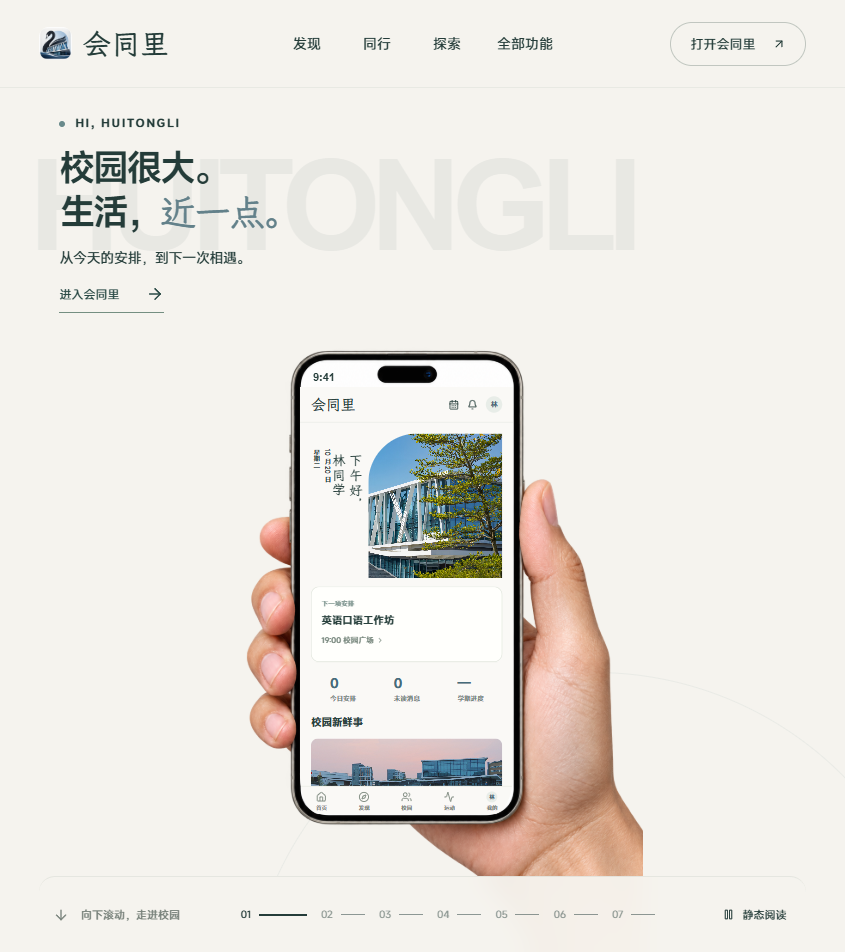
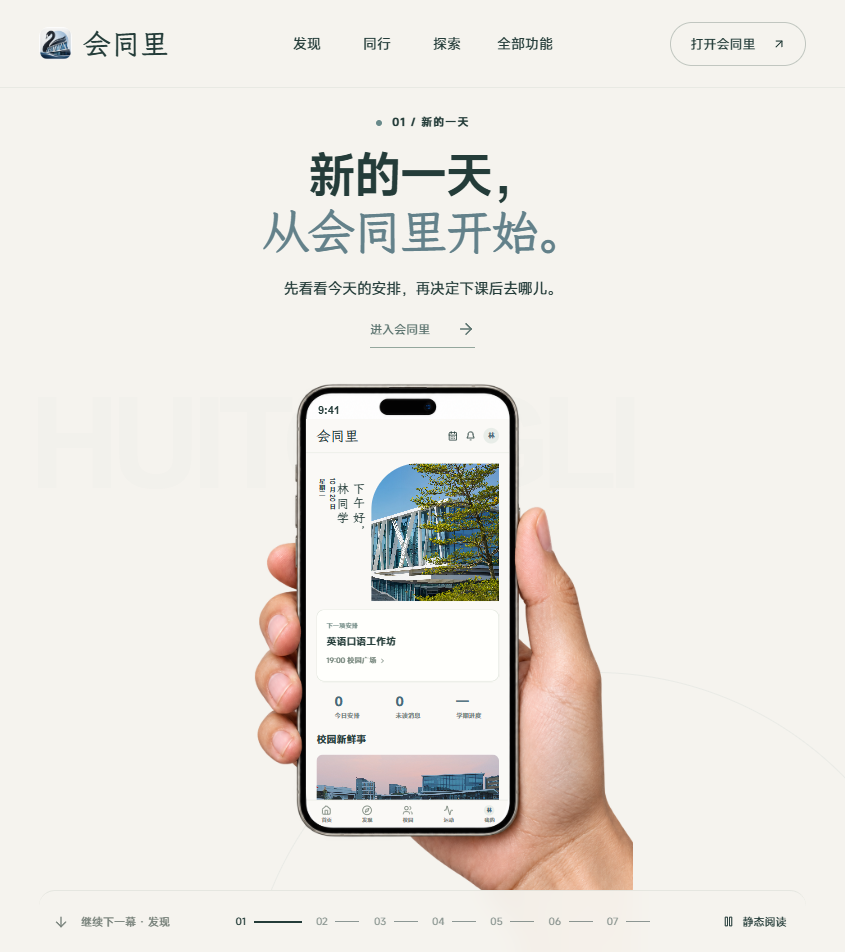
Refine promo storytelling and remove duplicate Coffee Chat imagery

diff --git a/src/promo/Promo.tsx b/src/promo/Promo.tsx
@@ -9,13 +9,13 @@ import { createPhone, type PhonePose } from './phone'
 gsap.registerPlugin(ScrollTrigger)
 
 const chapters = [
-  { tag: 'HI, HUITONGLI', nav: '初见', title: <>校园很大。<br />生活，<em>近一点。</em></>, description: '从今天的安排，到下一次相遇。', detail: '会同里，把你的校园生活放在一起。', screen: 'home', link: '/v2', action: '进入会同里', side: 'left' },
-  { tag: '01 / DISCOVER', nav: '发现', title: <>下课之后，<br /><em>还有好戏。</em></>, description: '一场活动，一个社团，一段值得分享的日常。', detail: '浏览校园活动与社区内容，找到你想参与的下一件事。', screen: 'discover', link: '/v2/activities', action: '去发现', side: 'right' },
-  { tag: '02 / COMMUNITY', nav: '论坛', title: <>校园里的声音，<br /><em>值得被听见。</em></>, description: '分享日常，认真提问，遇见有共鸣的人。', detail: '发布图文、浏览话题，点赞收藏与评论回复，让校园经验持续流动。', screen: 'forum', link: '/v2/community', action: '走进论坛', side: 'left' },
-  { tag: '03 / COFFEE CHAT', nav: 'Coffee Chat', title: <>有些答案，<br /><em>聊一聊就近了。</em></>, description: '选一位老师，约一段专属的交流时间。', detail: '了解交流主题、查看开放时段，带着你的问题发起预约。', screen: 'coffee', link: '/v2/coffee', action: '看看 Coffee Chat', side: 'right' },
-  { tag: '04 / TOGETHER', nav: '同行', title: <>你的「一起吗」，<br /><em>有人回应。</em></>, description: '拼车、自习、运动。把一个人的计划，变成同行。', detail: '按类型、地点与时间寻找队伍，或发起自己的组队。', screen: 'partners', link: '/v2/partners', action: '找个搭子', side: 'left' },
-  { tag: '05 / MOVE', nav: '运动', title: <>走出教室，<br /><em>把状态找回来。</em></>, description: '从一门体育课，到一次认真完成的运动。', detail: '查看体育课程、运动入口与记录。当前展示为本地模拟，不计入真实学时。', screen: 'sports', link: '/v2/sports', action: '打开运动', side: 'right' },
-  { tag: '06 / EXPLORE', nav: '探索', title: <>换个视角，<br /><em>认识校园。</em></>, description: '把熟悉的校园，放在手心转一转。', detail: '在 3D 地图里搜索楼栋、切换校区，查看地点与相关计划。', screen: 'map', link: '/v2/campus/explore', action: '探索校园', side: 'right' },
+  { tag: '01 / 新的一天', nav: '初见', title: <>新的一天，<br /><em>从会同里开始。</em></>, description: '先看看今天的安排，再决定下课后去哪儿。', detail: '课程、活动与想见的人，慢慢排进今天的生活。', screen: 'home', link: '/v2', action: '进入会同里', side: 'left' },
+  { tag: '02 / 下课以后', nav: '发现', title: <>下课之后，<br /><em>还有好戏。</em></>, description: '下课了。不急着回去，看看校园里正在发生什么。', detail: '浏览校园活动与社区内容，找到你想参与的下一件事。', screen: 'discover', link: '/v2/activities', action: '去发现', side: 'right' },
+  { tag: '03 / 想分享的时刻', nav: '论坛', title: <>刚刚的发现，<br /><em>想和大家聊聊。</em></>, description: '把日常写成一篇帖子，也看看同学们怎么说。', detail: '发布图文、浏览话题，点赞收藏与评论回复，让校园经验持续流动。', screen: 'forum', link: '/v2/community', action: '走进论坛', side: 'left' },
+  { tag: '04 / 有些问题，想当面聊', nav: 'Coffee Chat', title: <>关于下一步，<br /><em>约位老师聊聊。</em></>, description: '从一条经验想到自己的方向，带着问题预约一次交流。', detail: '了解交流主题、查看开放时段，带着你的问题发起预约。', screen: 'coffee', link: '/v2/coffee', action: '看看 Coffee Chat', side: 'right' },
+  { tag: '05 / 有了计划，找人同行', nav: '同行', title: <>你的「一起吗」，<br /><em>有人回应。</em></>, description: '聊完有了新想法。找个搭子，把计划变成一次出发。', detail: '按类型、地点与时间寻找队伍，或发起自己的组队。', screen: 'partners', link: '/v2/partners', action: '找个搭子', side: 'left' },
+  { tag: '06 / 给自己一点运动时间', nav: '运动', title: <>走出教室，<br /><em>把状态找回来。</em></>, description: '忙碌了一天，也留一点时间给球场和自己。', detail: '查看体育课程、运动入口与记录。当前展示为本地模拟，不计入真实学时。', screen: 'sports', link: '/v2/sports', action: '打开运动', side: 'right' },
+  { tag: '07 / 熟悉的校园，还有新发现', nav: '探索', title: <>换个视角，<br /><em>认识校园。</em></>, description: '下一次想去的地方，先在地图里看一看。', detail: '在 3D 地图里搜索楼栋、切换校区，查看地点与相关计划。', screen: 'map', link: '/v2/campus/explore', action: '探索校园', side: 'right' },
 ]
 const handChapters = [chapters[0], chapters[1], chapters[4], chapters[6]]
 const storyRange = chapters.length - .4
@@ -147,7 +147,7 @@ export function Promo() {
             </section>)}
           </div>
           {!staticMode && <div className="promo-stage-footer">
-            <div className="promo-scroll-label"><ArrowDown size={16} /><span>向下滚动，走进校园</span></div>
+            <div className="promo-scroll-label"><ArrowDown size={16} /><span>{active < chapters.length - 1 ? `继续下一幕 · ${chapters[active + 1].nav}` : '继续，看看校园的更多可能'}</span></div>
             <div className="promo-chapters" role="group" aria-label="选择产品场景">{chapters.map((chapter, i) => <button key={chapter.nav} onClick={() => jump(i)} aria-label={`查看${chapter.nav}`} aria-pressed={active === i}><span>0{i + 1}</span><i /></button>)}</div>
             <button className="promo-motion" onClick={() => setPaused(true)}><Pause size={13} /><span>静态阅读</span></button>
           </div>}

diff --git a/src/promo/ProductScreen.tsx b/src/promo/ProductScreen.tsx
@@ -37,7 +37,7 @@ export function ProductScreen({ name, active = true }: { name: ScreenName; activ
     <div className="ps-content">
       {name === 'home' && <><div className="ps-home-hero"><p>10 月 20 日<br/>星期二</p><h3>下午好，<br/>林同学</h3><img src={campus} alt="校园建筑"/></div><article className="ps-surface ps-focus"><small>下一项安排</small><h3>英语口语工作坊</h3><p>19:00 校园广场 <ChevronRight size={15}/></p></article><div className="ps-stats"><span><b>0</b>今日安排</span><span><b>0</b>未读消息</span><span><b>—</b>学期进度</span></div><h4>校园新鲜事</h4>{tile('下课之后，去看看校园', '校园日常', evening)}</>}
       {(name === 'discover' || name === 'forum') && <><div className="ps-top-tabs">{(name === 'forum' ? ['关注','发现','推荐'] : ['活动','社团','社区','校友']).map((x,i)=><span key={x} className={i===1?'selected':''}>{x}</span>)}<Search size={19}/></div><div className="ps-chips"><span>推荐</span><span>校园</span><span>学习</span><span>生活</span><span>互助</span></div><div className="ps-feed">{tile(name==='forum'?'在校园里，收集一个普通的晴天':'秋日校园摄影展', '校园广场 · 10/21', campus)}{tile('课后散步，你最喜欢哪一段路？','校园生活',evening,1)}{tile('把学习节奏，慢慢找回来','学习分享',services,2)}{tile('校园夜跑计划','一起出发',campus,1)}</div><div className="ps-toast ps-like"><Heart size={17}/>已收藏，留给下次再看</div><div className="ps-note"><img src={campus} alt="校园照片"/><h3>在校园里，收集一个普通的晴天</h3><p>下课后慢慢走，记录熟悉校园里的新发现。</p><div><Heart size={18}/><span>收藏</span><MessageCircle size={18}/><span>写下你的回应…</span></div></div></>}
-      {name === 'coffee' && <><h2>Coffee Chat</h2><p className="ps-subtitle">和老师聊聊，每一种可能。</p><img className="ps-banner" src={services} alt="校园公共空间"/><div className="ps-search"><Search size={19}/>搜索老师、学院或研究方向</div><div className="ps-chips"><span>全部</span><span>FST</span><span>FBM</span><span>FHSS</span></div><article className="ps-surface ps-teacher"><img src={services} alt="校园公共空间"/><h3>陈老师 <small>演示</small></h3><p>学习方法 · 专业探索</p><div className="ps-slots"><span>周三 14:00</span><span className="ps-pick">周三 15:00 <Check size={13}/></span></div><div className="ps-primary">选择交流时段 <Coffee size={16}/></div></article><div className="ps-toast"><Check size={18}/>时段已选择 · 预约流程演示</div></>}
+      {name === 'coffee' && <><p className="ps-subtitle">和老师聊聊，每一种可能。</p><img className="ps-banner" src={services} alt="校园公共空间"/><div className="ps-search"><Search size={19}/>搜索老师、学院或研究方向</div><div className="ps-chips"><span>全部</span><span>FST</span><span>FBM</span><span>FHSS</span></div><article className="ps-surface ps-teacher"><div className="ps-teacher-identity"><span className="ps-avatar">陈</span><div><h3>陈老师 <small>演示</small></h3><p>学习方法 · 专业探索</p></div></div><p className="ps-teacher-invitation">带上你的问题，留一段认真交流的时间。</p><div className="ps-slots"><span>周三 14:00</span><span className="ps-pick">周三 15:00 <Check size={13}/></span></div><div className="ps-primary">选择交流时段 <Coffee size={16}/></div></article><div className="ps-toast"><Check size={18}/>时段已选择 · 预约流程演示</div></>}
       {name === 'partners' && <><h2>一个人的计划，<br/>找到同行的人。</h2><div className="ps-search"><Search size={19}/>找一个同频的搭子</div><div className="ps-chips"><span>全部</span><span>自习</span><span>运动</span><span>拼车</span></div>{['图书馆，一起专注两小时','下课后，去打羽毛球','周末出发，一起去市区'].map((title,i)=><article key={title} className={`ps-surface ps-team ps-reveal ps-delay-${i}`}><small>{['学习搭子','运动搭子','出行搭子'][i]}</small><h3>{title}</h3><p><MapPin size={15}/>{['学习资源中心','体育馆','校园南门'][i]}</p><div className="ps-team-bottom"><span>○ ○ 寻找同行</span><b>{i===0?'查看队伍':'一起出发'} →</b></div></article>)}<div className="ps-toast"><Users size={18}/>找到合适的队伍，聊聊计划</div></>}
       {name === 'sports' && <><div className="ps-chips"><span>学期进度</span><span>运动记录</span></div><div className="ps-demo-label">本地模拟 · 不计入真实学时</div><article className="ps-surface"><div className="ps-top-tabs"><span className="selected">课程相关</span><span>自主运动</span></div><small>本次运动</small><h2>羽毛球</h2><p>大学体育（羽毛球）</p><div className="ps-sports-ring"><svg viewBox="0 0 160 160"><circle cx="80" cy="80" r="67"/><circle className="ps-ring-fill" cx="80" cy="80" r="67"/></svg><div><Activity size={28}/><b>运动时刻</b><small>演示中</small></div></div><p>运动要求 <ChevronRight size={16}/></p><div className="ps-primary"><Play size={16}/>开始运动</div></article><div className="ps-toast"><Check size={18}/>查看记录，回顾每一次出发</div></>}
       {name === 'map' && <><div className="ps-search"><Search size={19}/>搜索地点、楼号或拼音</div><div className="ps-chips"><span>全校</span><span>一期</span><span>二期</span></div><div className="ps-map-scene"><div className="ps-map-ground"><img src="/promo/map.png" alt="实际校园模型视角"/><span className="ps-map-pin"><MapPin size={22}/>学习资源中心</span></div></div><article className="ps-surface ps-map-info"><small>地点详情 · 界面演示</small><h3>学习资源中心</h3><p>一期 · 查看建筑与地点</p><div className="ps-primary">在真实 3D 校园中探索 →</div></article></>}

diff --git a/src/promo/promo.css b/src/promo/promo.css
@@ -42,3 +42,12 @@
 @media(min-width:760px) and (max-width:1099px){.promo-scene-held{align-items:flex-start;padding:115px 7% 0}.promo-scene-held .promo-copy{width:100%;max-width:none}.promo-scene-held .promo-copy h1,.promo-scene-held .promo-copy h2{font-size:36px;line-height:1.22;margin-bottom:12px}.promo-scene-held .promo-eyebrow{margin-bottom:13px}.promo-scene-held .promo-description{font-size:14px}.promo-scene-held .promo-button,.promo-scene-held .promo-text-link{font-size:12px;padding:9px 0;min-height:35px;background:none;color:#294945;border-bottom:1px solid #748e81;border-radius:0;margin-top:5px}.promo-scene-held .promo-web-note,.promo-held-caption{display:none}.promo-held-photo{width:440px;height:660px;left:calc(50% - 220px);top:320px}}
 @media(min-width:760px) and (max-width:1099px) and (max-height:800px){.promo-held-photo{width:330px;height:495px;left:calc(50% - 165px);top:280px}.promo-scene-held{padding-top:105px}.promo-scene-held .promo-copy h1,.promo-scene-held .promo-copy h2{font-size:29px}.promo-scene-held .promo-eyebrow{margin-bottom:8px}}
 .promo-held-display .screen-preview{transition:opacity .24s ease-out}
+/* Editorial hierarchy: a clear story beat above the centered hand on compact screens. */
+.promo-stage .promo-watermark{opacity:.22;top:12%;pointer-events:none}.promo-copy h1,.promo-copy h2{text-wrap:balance}.promo-eyebrow{letter-spacing:.1em}.promo-scene-held .promo-description{line-height:1.85;max-width:330px}.promo-held-caption{font-size:16px;line-height:1.9}.promo-held-caption>span{font-size:11px}.promo-copy .promo-text-link{font-size:13px;opacity:.8}.ps-teacher{padding:20px 0}.ps-teacher-identity{display:flex;gap:12px;align-items:center;margin:0 16px 18px}.ps-teacher-identity>.ps-avatar{width:46px;height:46px;font-size:22px}.ps-teacher-identity h3{margin:0}.ps-teacher-identity p{margin:5px 0 0;font-size:12px}.ps-teacher .ps-teacher-invitation{margin-bottom:20px;color:#718379;font-size:13px}.ps-coffee .ps-subtitle{font-size:20px;margin:2px 0 20px;line-height:1.6}.ps-coffee .ps-banner{height:115px;margin:0 0 12px}.ps-coffee .ps-toast{bottom:12px;font-size:11px;padding:12px}
+@media(min-width:760px) and (max-width:1099px){.promo-scene-held{padding-top:114px;text-align:center}.promo-scene-held .promo-eyebrow{justify-content:center;font-size:11px;margin-bottom:15px}.promo-scene-held .promo-copy h1,.promo-scene-held .promo-copy h2{font-size:48px;line-height:1.18;letter-spacing:-.045em;margin-bottom:16px}.promo-scene-held .promo-description{max-width:480px;margin:0 auto;font-size:15px;line-height:1.7}.promo-scene-held .promo-button,.promo-scene-held .promo-text-link{margin-top:10px;font-size:12px;opacity:.75}.promo-held-photo{width:420px;height:630px;left:calc(50% - 210px);top:355px}.promo-stage[data-held=true] .promo-watermark{top:39%;font-size:15vw}.promo-stage-footer{height:62px}}
+@media(max-width:759px){.promo-scene-held{text-align:center;padding-top:97px}.promo-scene-held .promo-eyebrow{justify-content:center;font-size:9px;margin-bottom:13px}.promo-scene-held .promo-copy h1,.promo-scene-held .promo-copy h2{font-size:35px;line-height:1.2;margin-bottom:13px}.promo-scene-held .promo-description{font-size:13px;max-width:310px;margin:0 auto;line-height:1.7}.promo-scene-held .promo-button,.promo-scene-held .promo-text-link{font-size:11px;margin-top:7px}.promo-stage[data-held=true] .promo-watermark{top:40%;opacity:.15}}
+@media(min-width:760px) and (max-width:1099px) and (max-height:800px){.promo-scene-held{padding-top:102px}.promo-scene-held .promo-copy h1,.promo-scene-held .promo-copy h2{font-size:35px;margin-bottom:9px}.promo-scene-held .promo-eyebrow{margin-bottom:10px}.promo-held-photo{width:310px;height:465px;left:calc(50% - 155px);top:300px}.promo-scene-held .promo-description{font-size:13px}}
+@media(max-width:380px){.promo-scene-held .promo-copy h1,.promo-scene-held .promo-copy h2{font-size:30px}.promo-scene-held .promo-description{font-size:12px}.promo-scene-held{padding-top:92px}.promo-scene-held .promo-eyebrow{margin-bottom:9px}}
+
+@media(max-width:759px){.promo-motion{flex-shrink:0;white-space:nowrap}.promo-chapters{gap:3px}.promo-chapters button{min-width:26px}.promo-chapters button i{width:8px}.promo-chapters button[aria-pressed=true] i{width:14px}}
+@media(max-width:380px){.promo-stage-footer{left:4%;right:4%;padding-left:8px;padding-right:8px}.promo-motion{gap:4px;font-size:9px}}

diff --git a/docs/PROMO_HANDOFF.md b/docs/PROMO_HANDOFF.md
@@ -1,5 +1,13 @@
 # 会同里产品宣传页交接
 
+## 叙事与版式调整（2026-10-20）
+
+- 七章围绕校园日常衔接：今日安排 → 下课发现 → 论坛分享 → 与老师交流 → 找人同行 → 运动 → 探索校园。底部提示随章节显示下一幕。
+- Coffee Chat 保留一张校园场景照片，去掉重复标题与教师卡中的重复照片；教师卡改为姓名、主题、交流说明、时段和预约演示。
+- 760–1099px 改为居中标题与说明、下方手持手机；手机端同步调整字号和留白。桌面保留两侧文字。背景字降低对比度，320px 底部控制保持横排。
+- 浏览器检查 1440×900、845×952、390×844、320×700 的首页与 Coffee Chat 截图；滚动同步回归通过 8 次来回跳转、5 个尺寸、实际热更新与静态恢复，无页面异常。类型检查、Lint 与生产构建通过；独立复审检查上述版式和七章文案，未发现阻断问题（未独立重跑交互测试）。构建仍提示部分包超过 500 kB。最新证据：`editorial-845-3.png`、`editorial-1440-0.png`、`fixed-320.png`。
+
+
 ## 重叠与文案同步修复
 
 用户在 845×952 预览中发现双手机与文案停留。直接检查该浏览器实例时，章节状态已到找搭子，但文案节点与手机容器的手工内联样式已丢失，CSS 默认首屏重新显示。
